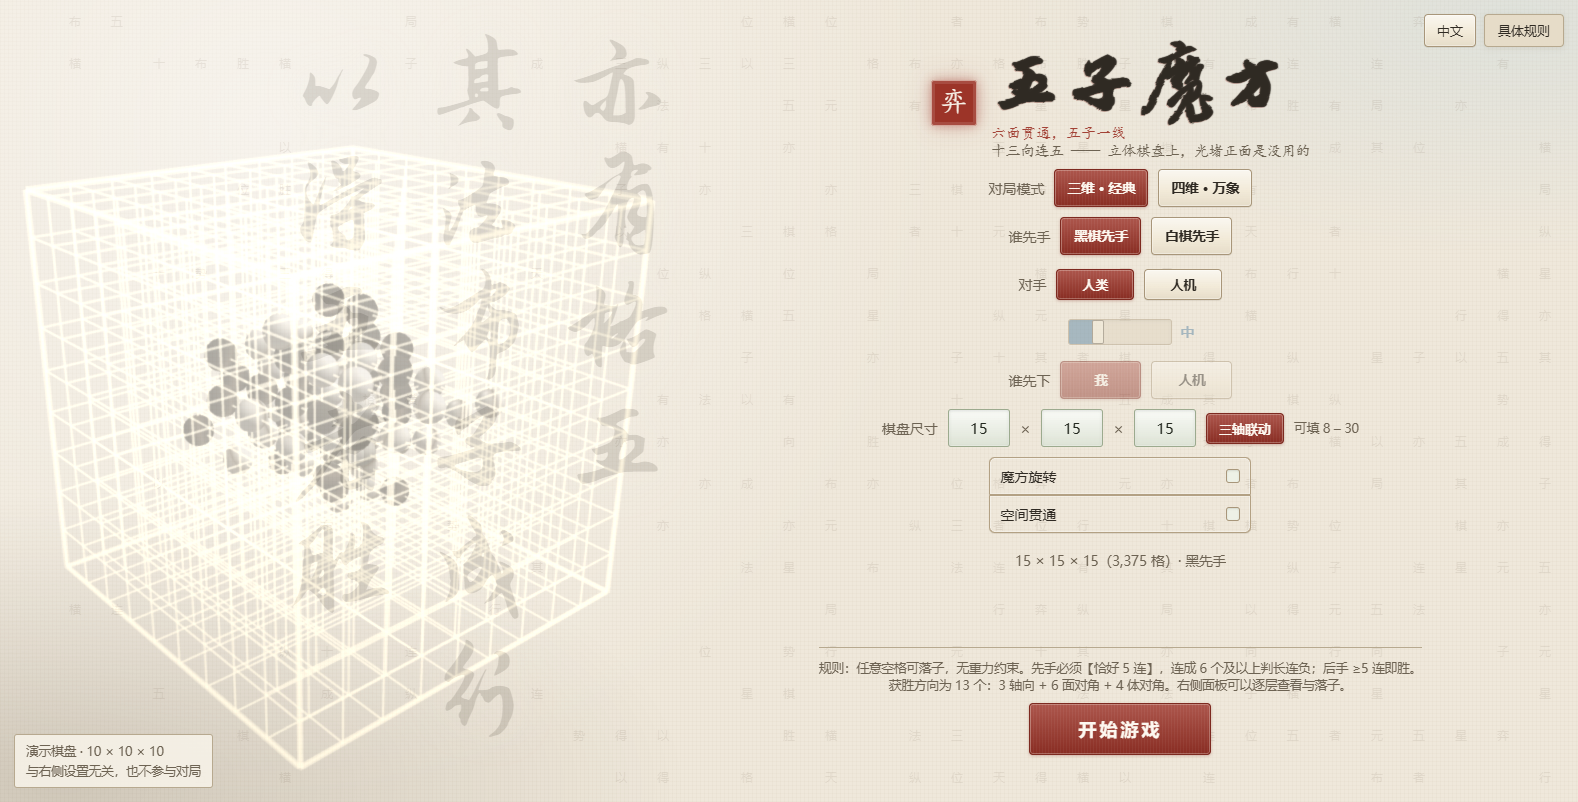
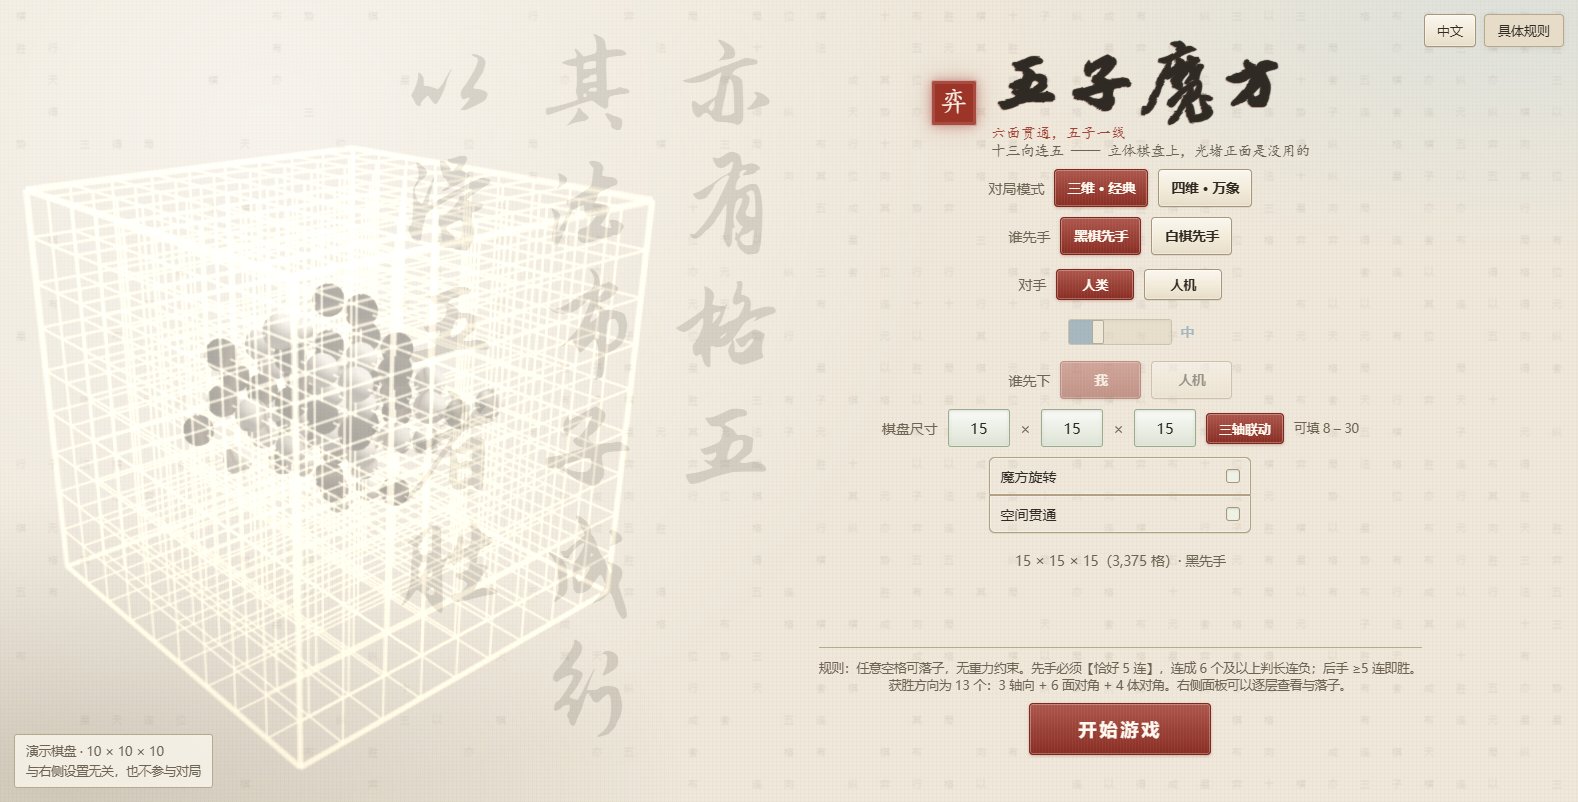
v3.1.6 水印按方向定位；字符更小更密；修收敛后亚像素爬行的闪烁
【1. 横屏：水印改成"贴住设置区文字"，位置由代码算】
  要求是"离设置区文字最近、但不压上去"。而设置区内容的最左沿【不是固定的视口比例】：
  中文在 1578 下是 51.9%，法语在 1280 下是 44.4% —— 每行的宽度随语言变、整列却居中。
  写死百分比只能照顾一个视口：按 1280 定，宽屏上离"弈"字 245px（太远）；
  按 1578 定，窄屏上法语被压住。
  新增 syncInscription()：量出内容左沿，把水印右缘钉在它左边 24px，写进内联样式。
  挂四个触发点（换语言 / 开设置 / 换模式 / 换视口）—— 这四个都会改内容左沿。
  实测：桌面 1578 下右缘 686 -> 795（离"弈"字 245 -> 136px），手机横屏 852 下同样 24px。

【2. 竖屏：挪到视口右上角】
  竖屏下设置区是【整宽】的（#setup 翻成上下分栏），横着根本没有空位，原来的百分比
  定位让水印【直接跑到屏幕外】：实测 393×852 下 x −270..171。
  这一档改成 top:2vh / right:2vw，第一个字「亦」落在右上角、整列向下延展；
  沿用的内边距必须写 auto（top 已钉死，两个都写会拉伸元素高度、把"一列几个字"算错）。
  字号同时加了一个 vw 项（15vh -> min(15vh, 26vw)）：竖排 3 列的整块宽 ≈ 3.45×字号，
  只按 vh 定会让它比屏幕还宽（393 下 441px）。这一档【允许压住设置区】，是明确要求，
  所以 browser-check 里那条"水印不许和面板文字冲突"只在横屏下要求。

【3. 字符：更小更密】间距 42->32，字号 12->10，密度 0.12/0.62 -> 0.24/0.80。
  整屏格子数约 320 -> 750。档位门槛是【绝对像素】，跟着按 0.76 缩
  （它们量的是"离家多远"，而"多远算远"是相对格子大小的）。

【4. 修：收敛之后格子还在以亚像素速度爬，看着像"有个字在极轻地闪"】
  指针停着不动时，被斥力顶住的格子有个静止的平衡点，而显式积分只会【渐近】趋近 ——
  位置永远在变。后果是偶尔跨过档位门槛（浓度 0.11<->0.32、大小 1.0<->1.14），
  测试上表现为"相隔 900ms 的两张快照差出 213 个像素，两次跑一次 0 一次 213"。
  加"冻结"：每帧位移 < 0.02px 且速度 < 1.5px/s 且【此刻确实被指针顶着】时，
  速度归零、这一帧不再积分；指针一动（onMove 或 mouseleave）就解冻。
  【held 这个条件不能省】只看"动得小"会把"刚解冻、还没被弹簧加速起来"的格子
  当场重新冻回去 —— 实测那样归位残留 3000 像素。
  顺带一个真实的性能收益：全冻住时 rAF 自己停表，指针停在原地不再空烧 CPU。

【测试】新增"收敛后 rAF 必须自己停（格子冻住）"。
  改之前那条"指针停住后收敛"是条假绿 —— 两次跑一次 0 一次 213，只是没被抓到过。

diff --git a/Web_Gomoku3D/index.html b/Web_Gomoku3D/index.html
@@ -1310,12 +1310,18 @@
        44% 时实测法语只剩 4px 余量（水印右缘 563 / 内容最左沿 568），
        而 browser-check 里那条"不许冲突"要求至少 8px —— 只判"不重叠"的话，
        4px 也算过，但那种余量下次改一个字就翻脸。43.5% 下法语约 11px。 */
+    /* 56.5% 只是【JS 还没跑起来时】的兜底 —— 真实位置由 syncInscription() 按
+       设置区内容的实际左沿算出来写进内联样式（那个左沿不是固定比例，见那边注释）。 */
     right: 56.5%; top: 3vh; bottom: 3vh;
     writing-mode: vertical-rl; text-orientation: upright;
     font-family: "BrushSub", "STXingkai", "华文行楷", "STKaiti", "华文楷体", "KaiTi", "楷体", serif;
     /* 一列 6 个字要塞进 86vh：6 × 字号 × (1+字距) <= 86vh
        -> 字号 <= 13.6vh（字距 .04em 时）。取 13vh，留一点余量。 */
-    font-size: clamp(38px, 15vh, 170px);
+    /* 【加 vw 项是为了竖屏】竖排是 3 列，每列宽 = 字号 × 行距(1.15)，
+       所以整块宽 ≈ 3.45 × 字号。窄屏上只按 vh 定字号会让整块【比屏幕还宽】——
+       实测 393×852 下字号 128px、整块 441px，直接跑到屏幕外面（x −270..171）。
+       26vw 是那条线：393 × 0.26 = 102px -> 整块 352px < 393，放得下。 */
+    font-size: clamp(38px, min(15vh, 26vw), 170px);
     line-height: 1.15;        /* 竖排下 = 列与列的距离 */
     letter-spacing: .01em;    /* 竖排下 = 列内字与字的距离 */
     color: #332c22; opacity: .15;
@@ -1325,6 +1331,18 @@
        它得和笔画同量级才起得到"把线框推开"的作用。 */
     text-shadow: 0 0 46px rgba(239,232,219,.95), 0 0 16px rgba(239,232,219,.8);
   }
+  /* 【竖屏：挪到视口右上角】横屏时水印贴在设置区左侧那条空位里，而竖屏下
+     设置区是【整宽】的（#setup 翻成上下分栏），横着根本没有空位 ——
+     原来的百分比定位会让它直接跑到屏幕外（实测 x −270..171）。
+     这一档改成从视口右上角往下排：第一个字「亦」落在右上角，整列向下延展。
+     底部内边距改成 auto 是因为 top 已经钉死 —— 两个都写会拉伸元素高度、
+     把"一列放几个字"算错（那个坑见 #inscription 上面那段）。
+     【这一档允许压住设置区】这是明确要求，所以 browser-check 里那条
+     "水印不许和面板文字冲突"只在横屏下要求。 */
+  @media (orientation: portrait) {
+    #inscription { top: 2vh; bottom: auto; left: auto; right: 2vw; }
+  }
+
   /* 只活在起始界面。进对局就把水印收掉 —— 那是"在纸上下棋"，不是"看一幅字"。 */
   #stage:not(.preview) ~ #inscription { display: none; }
 
@@ -9657,6 +9675,7 @@ const Game = {
       "chip","status","rule","info","boardWrap","timelineWrap","timeline","layerBase","layerOverlay","prevLayer","nextLayer",
       "topLayer","layerLabel","stripWrap","strip","undoBtn","restartBtn","swapBtn","setupBtn",
       "setup","firstBlack","firstWhite","sizeSummary","startBtn","tutorialBtn","view","stage","previewTag",
+      "inscription",
       "aiHuman","aiCpu","aiLevelRow","aiLevel","aiRange","aiLevelName","aiHint","orderMe","orderCpu",
       "phaseChip","modeBtn",
       "rulesBtn","rulesPanel","rulesClose","rulesBody",
@@ -9784,6 +9803,8 @@ const Game = {
     this.syncAiLevel();
     // 行标换了语言、宽度就变了，同宽那条得重量一次
     this.syncLabelWidth();
+    // 面板内容的左沿可能跟着变（换语言 / 换模式 / 换视口）—— 水印贴的就是它
+    this.syncInscription();
     this.refreshSetupSummary();
     // 这两个是 JS 写的、不挂 data-i18n 的元素，applyStatic 管不到它们。
     // refreshHint 只在 WebGL2 失败时动手，正常情况下它直接返回。
@@ -10583,6 +10604,8 @@ const Game = {
     this.syncAiRow();
     this.syncAiLevel();
     this.syncLabelWidth();
+    // 面板内容的左沿可能跟着变（换语言 / 换模式 / 换视口）—— 水印贴的就是它
+    this.syncInscription();
     this.refreshSetupSummary();
     this.ensurePreview();
     this.uploadPreviewInstances();
@@ -12578,6 +12601,8 @@ const Game = {
     this.syncExtraRow();
     this.syncSetupInputs();
     this.refreshSetupSummary();
+    // 换模式会换掉尺寸行、加/减「魔方旋转」那一块 —— 内容左沿跟着变，重量一次
+    this.syncInscription();
   },
 
   /**
@@ -13272,6 +13297,51 @@ const Game = {
   },
 
   /**
+   * 竖排古文水印的横向位置：**贴住设置区内容的左沿，保持固定间距**。
+   *
+   * 【为什么必须用 JS 算，不能用百分比】要求是"离设置区文字最近、但不压上去"，
+   * 而设置区内容的最左沿【不是一个固定的视口比例】：实测中文在 1578 下是 51.9%，
+   * 法语在 1280 下是 44.4% —— 每行的宽度随语言变，而整列是居中的。
+   * 写死百分比只能照顾一个视口：按 1280 定，宽屏上离得太远（实测 245px）；
+   * 按 1578 定，窄屏上法语就被压住。
+   *
+   * 【和 syncLabelWidth 同一套做法】量完写进元素样式，布局只有一个事实源。
+   * 竖屏那一档不在这里管：那时水印改到视口右上角、而且【允许压面板】（明确要求），
+   * 由 CSS 的 @media (orientation: portrait) 定 —— 内联样式会盖过 @media，所以要清掉。
+   */
+  syncInscription() {
+    const el = this.el.inscription;
+    if (!el || !el.style) return;
+    if (typeof window !== "undefined" && window.matchMedia &&
+        window.matchMedia("(orientation: portrait)").matches) {
+      el.style.right = "";
+      return;
+    }
+    const setup = this.el.setup;
+    // 【桩环境里没有这个方法】dom-smoke 的元素桩上没有 querySelectorAll
+    // （见 syncCoolRow 上面那段注释），直接调会抛 TypeError，
+    // 而那个报错看起来和"水印"毫无关系、极难归因。没有就安静退出。
+    if (!setup || typeof setup.querySelectorAll !== "function") return;
+    if (typeof window === "undefined" || !window.innerWidth) return;
+    const SEL = ".row, .rowLabel, button, .dimInput, .hint, .tagline, .sub, h1," +
+                " #ruleNote, #sizeSummary, #extraRow";
+    let minL = Infinity;
+    const list = setup.querySelectorAll(SEL);
+    for (let i = 0; i < list.length; i++) {
+      const e = list[i];
+      if (!e || typeof e.getBoundingClientRect !== "function") continue;
+      if (typeof e.getClientRects === "function" && e.getClientRects().length === 0) continue;
+      const b = e.getBoundingClientRect();
+      if (!b || !(b.width > 0)) continue;
+      if (b.left < minL) minL = b.left;
+    }
+    if (!isFinite(minL)) return;
+    // 24px：比 browser-check 里那条"至少 8px"留得更宽，肉眼上是"挨着但不碰"
+    const GAP = 24;
+    el.style.right = Math.round(Math.max(0, window.innerWidth - (minL - GAP))) + "px";
+  },
+
+  /**
    * 把拉条的外观刷成当前档位：填充比例、颜色、右边的档位名。
    * **两件事都只写在父元素上**（--pct / data-lv），轨道的渐变和滑块的颜色都由 CSS 读它们 ——
    * 原生滑块的轨道和滑块是伪元素，写不进内联样式；写在父元素的自定义属性上才能被它们继承到。
@@ -13517,7 +13587,7 @@ const Game = {
     this.camera.frameBoard(r.width / Math.max(1, r.height), true);
     // 视口变了，起始界面那一列的可用宽度也变了 —— 行标重新量一次；
     // 顺带把 --compact 也重读（它决定按键要不要收一档，同样影响这一行的宽度）
-    if (this.setupOpen) this.syncLabelWidth();
+    if (this.setupOpen) { this.syncLabelWidth(); this.syncInscription(); }
     // 平移量的边界是"半个视口"，转屏会改视口尺寸 —— 不重新夹一次的话，
     // 横屏里拖出来的平移量在竖屏下可能已经越界（棋盘贴边甚至露不出一半）
     this.pan3dBy(0, 0);
@@ -13585,8 +13655,14 @@ const InkField = (function () {
   /* 字池：古文原句 + 围棋/棋盘的术语。用真字而不是符号，是为了让这层读起来
      像"一张写满字的纸"，而不是"一堆装饰点"。 */
   const CHARS = "亦有格五其法布子成行以得者胜弈棋势局天元星位十三向连纵横";
-  const CELL = 42;         // 网格间距。**比第一版(56)密** —— 密才铺得满整块纸
-  const GLYPH = 12;        // 字形大小。**很小是刻意的**：一串小字才是"纸的纹理"，
+  /* 【v3.1.6 又收了一轮：42/12 -> 32/10】
+     要求是"字号再小一点、再密一点"。这两个数一起动才算数 ——
+     只缩字号会变稀（留白比例反而更大），只缩间距会让字挤在一起糊成一团。
+     现在字/间距 = 10/32 ≈ 0.31（上一版 12/42 ≈ 0.29，观感上"更密"靠的是间距降了 24%）。
+     整屏格子数从约 320 涨到约 810（1600×900）。图集方案下这只是初始铺底多画几百次
+     drawImage，每帧的开销仍然只跟【醒着的格子数】挂钩。 */
+  const CELL = 32;         // 网格间距
+  const GLYPH = 10;        // 字形大小。**很小是刻意的**：一串小字才是"纸的纹理"，
                            // 字一大就变成"另一层内容"，会和面板抢注意力
   const PAD = 5;           // 图集里每格留白，防止抗锯齿被切边
   const INK = "107,93,71"; // 墨色 rgb（暖墨，不用纯黑）
@@ -13599,8 +13675,8 @@ const InkField = (function () {
      中间用 smoothstep 过渡（不用线性：线性会在两端留下明显的"折痕"，
      眼睛对密度的突变很敏感，看起来像贴了两块不同的纸）。
      0.30 / 0.62 这两个数对着的是 #setup 的 left:42% —— 过渡带正好落在演示盘右缘附近。 */
-  const FILL_RIGHT = 0.62;
-  const FILL_LEFT = 0.12;
+  const FILL_RIGHT = 0.80;
+  const FILL_LEFT = 0.24;
   const BAND_A = 0.30, BAND_B = 0.62;
   function densityAt(t) {
     let k = (t - BAND_A) / (BAND_B - BAND_A);
@@ -13682,8 +13758,10 @@ const InkField = (function () {
      在抖，于是那几格在两档之间反复横跳 —— 画面上表现为"有个字在轻轻闪"。
      实测基线：单门槛时相隔 900ms 的两张快照会差出 14 个像素；加迟滞后为 0。
      两个门槛之间那段（2→4、9→12、22→26）就是"保持现状"的死区。 */
-  const TH_UP = [4, 12, 26];     // 升档门槛
-  const TH_DN = [2, 9, 22];      // 降档门槛（都比升档低，留出死区）
+  // 【门槛是绝对像素，必须跟着格子尺寸一起缩】它们量的是"离家多远"，
+  // 而"多远算远"是相对格子大小的。42 -> 32 之后按 0.76 缩，否则轻轻一划就跳满档。
+  const TH_UP = [3, 9, 20];      // 升档门槛
+  const TH_DN = [1.5, 7, 17];    // 降档门槛（都比升档低，留出死区）
 
   function levelFor(dist, cur) {
     let lv = cur;
@@ -13735,7 +13813,7 @@ const InkField = (function () {
         const hy = oy + r * CELL;
         cells.push({ hx: hx, hy: hy, x: hx, y: hy, vx: 0, vy: 0,
                      ci: (rnd() * CHARS.length) | 0, lv: 0,
-                     px: hx, py: hy, awake: false, dw: 0 });
+                     px: hx, py: hy, awake: false, dw: 0, frozen: false });
       }
     }
     // 一次性铺底：全部画在"家"的位置，之后再也不整屏重画
@@ -13758,11 +13836,15 @@ const InkField = (function () {
 
     for (let i = 0; i < awake.length; i++) {
       const cl = awake[i];
+      // 【冻住的格子这一帧什么都不做】它的位置已经不再变化，画出来的东西也就没变。
+      if (cl.frozen) continue;
 
       // ---- ① 斥力：点到【线段】的距离（见文件头那一段）----
+      let held = false;          // 这一帧是不是真的被指针的斥力顶着（下面"冻住"要用）
       if (mvy !== 0 || mvx !== 0 || M.x > -1e3) {
         const g = segDist2(cl.x, cl.y, M.lx, M.ly, M.x, M.y);
         if (g.d2 < R2) {
+          held = true;
           const d = Math.sqrt(g.d2) || 1e-3;
           const f = 1 - d / R;                       // 线性衰减
           let ex = cl.x - g.qx, ey = cl.y - g.qy;
@@ -13785,6 +13867,8 @@ const InkField = (function () {
       const dist = Math.abs(cl.x - cl.hx) + Math.abs(cl.y - cl.hy);
       const lv = levelFor(dist, cl.lv);
       if (lv !== cl.lv) cl.lv = lv;
+      // 本帧位移：冻结判据要用它（位移才是看得见的那件事，速度不是）
+      const moved = Math.abs(cl.x - cl.px) + Math.abs(cl.y - cl.py);
       cl.px = cl.x; cl.py = cl.y;
 
       // ---- ③b 位移上限 ----
@@ -13810,13 +13894,39 @@ const InkField = (function () {
         cl.awake = false;
       } else {
         drawCell(cl);
+        // ---- ④b 收敛了就【冻住】----
+        // 【为什么必须有这一步】指针停着不动时，被斥力顶住的格子有个静止的平衡点，
+        // 而显式积分只会【渐近】趋近它 —— 位置永远在变，只是越变越小。
+        // 两个后果都不明显但都真实：
+        //   · 画面上：偶尔有个格子跨过档位门槛（浓度 0.11 <-> 0.32、大小 1.0 <-> 1.14），
+        //     看着像"有个字在极轻地闪"；
+        //   · 测试上：相隔 900ms 的两张快照会差出 200 来个像素，两次跑一次 0 一次 213。
+        // 冻住不等于睡着：位置停在原地（它确实该停在那儿），指针一动就被解冻。
+        // 【held 这个条件不能省】只看"动得小"是不够的：指针离开窗口之后，
+        // 格子已经解冻、但还没来得及被弹簧加速起来，那一瞬间 moved≈0 且 v≈0 ——
+        // 只看这两条的话会把它【当场重新冻回去】，于是它永远停在离家很远的地方。
+        // 实测后果：归位后的残留从 0 变成 3000 像素。
+        // 加上 held 之后语义才准确：只有"被指针顶着、且不动了"才算收敛。
+        if (held && moved < 0.02 && Math.abs(cl.vx) < 1.5 && Math.abs(cl.vy) < 1.5) {
+          cl.vx = 0; cl.vy = 0; cl.frozen = true;
+        }
       }
+    }
+
+    // 【循环继续的条件：还有"醒着且没冻住"的格子】
+    // 全冻住就停表 —— 指针停在原地不动时这一层现在真的不烧 CPU 了
+    // （改之前那种情形 rAF 会一直空转，因为被顶住的格子永远睡不着）。
+    let anyMoving = false;
+    for (let i = 0; i < awake.length; i++) {
+      const c = awake[i];
+      if (c.awake && !c.frozen) { anyMoving = true; break; }
     }
 
     // 醒着的收工了就原地压缩（只有真睡着了才重建数组，避免每帧分配）
     let stillAwake = false;
     for (let i = 0; i < awake.length; i++) { if (awake[i].awake) { stillAwake = true; break; } }
     if (stillAwake) {
+      if (!anyMoving) { running = false; return; }   // 全冻住：这一帧都不用再排
       const keep = [];
       for (let i = 0; i < awake.length; i++) if (awake[i].awake) keep.push(awake[i]);
       awake = keep;
@@ -13841,6 +13951,9 @@ const InkField = (function () {
     // 首帧：上一帧位置就是当前位置，避免从 (-10000,-10000) 拉出一条横穿全屏的长线
     if (M.x < -1e3) { M.x = M.lx = x; M.y = M.ly = y; }
     M.x = x; M.y = y;
+
+    // 【指针一动，全部解冻】冻住的前提是"指针不动、所以力不变"；指针一移前提就没了。
+    for (let i = 0; i < awake.length; i++) awake[i].frozen = false;
 
     const R = R_CELLS * CELL + CELL;
     for (let i = 0; i < cells.length; i++) {
@@ -13884,7 +13997,7 @@ const InkField = (function () {
     for (let i = 0; i < cells.length; i++) {
       const cl = cells[i];
       if (cl.x !== cl.hx || cl.y !== cl.hy) { cl.x = cl.hx; cl.y = cl.hy; cl.vx = 0; cl.vy = 0; cl.px = cl.hx; cl.py = cl.hy; }
-      cl.awake = false; cl.lv = 0;
+      cl.awake = false; cl.lv = 0; cl.frozen = false;
     }
   }
 
@@ -13913,7 +14026,16 @@ const InkField = (function () {
     if (typeof window === "undefined" || !window.addEventListener) return;
     window.addEventListener("mousemove", onMove, { passive: true });
     window.addEventListener("resize", onResize);
-    window.addEventListener("mouseleave", function () { M.x = M.y = -1e4; M.lx = M.ly = -1e4; });
+    window.addEventListener("mouseleave", function () {
+      M.x = M.y = -1e4; M.lx = M.ly = -1e4;
+      // 【必须解冻】冻住的前提是"指针不动、所以力不变"；指针离开窗口，那个前提同样没了。
+      // 忘了这一步的后果很重：被顶住的格子会【原地冻在外面】再也不回家 ——
+      // 实测"归位后逐像素回到静止态"从 0 变成残留 9000 像素。
+      // 注意这条通路绕开了 onMove（那是鼠标在窗口内移动才触发的），
+      // 所以解冻这件事必须在两个地方都写。
+      for (let i = 0; i < awake.length; i++) awake[i].frozen = false;
+      wake();
+    });
     // 标签页切走就彻底停 —— rAF 本来就会被浏览器节流，但这里连状态一起收干净
     if (typeof document.addEventListener === "function") {
       document.addEventListener("visibilitychange", function () {
@@ -13943,6 +14065,7 @@ const InkField = (function () {
       const areaShare = 0.42;
       return { hasCanvas: !!cv, cells: cells.length, awake: awake.length,
                running: running, wants: wantsEffect(), wanted: wanted, moves: moves,
+               frozen: awake.length ? awake.filter(function (c) { return c.frozen; }).length : 0,
                leftCells: left,
                leftShare: cells.length ? (left / cells.length) / areaShare : 0 };
     },
